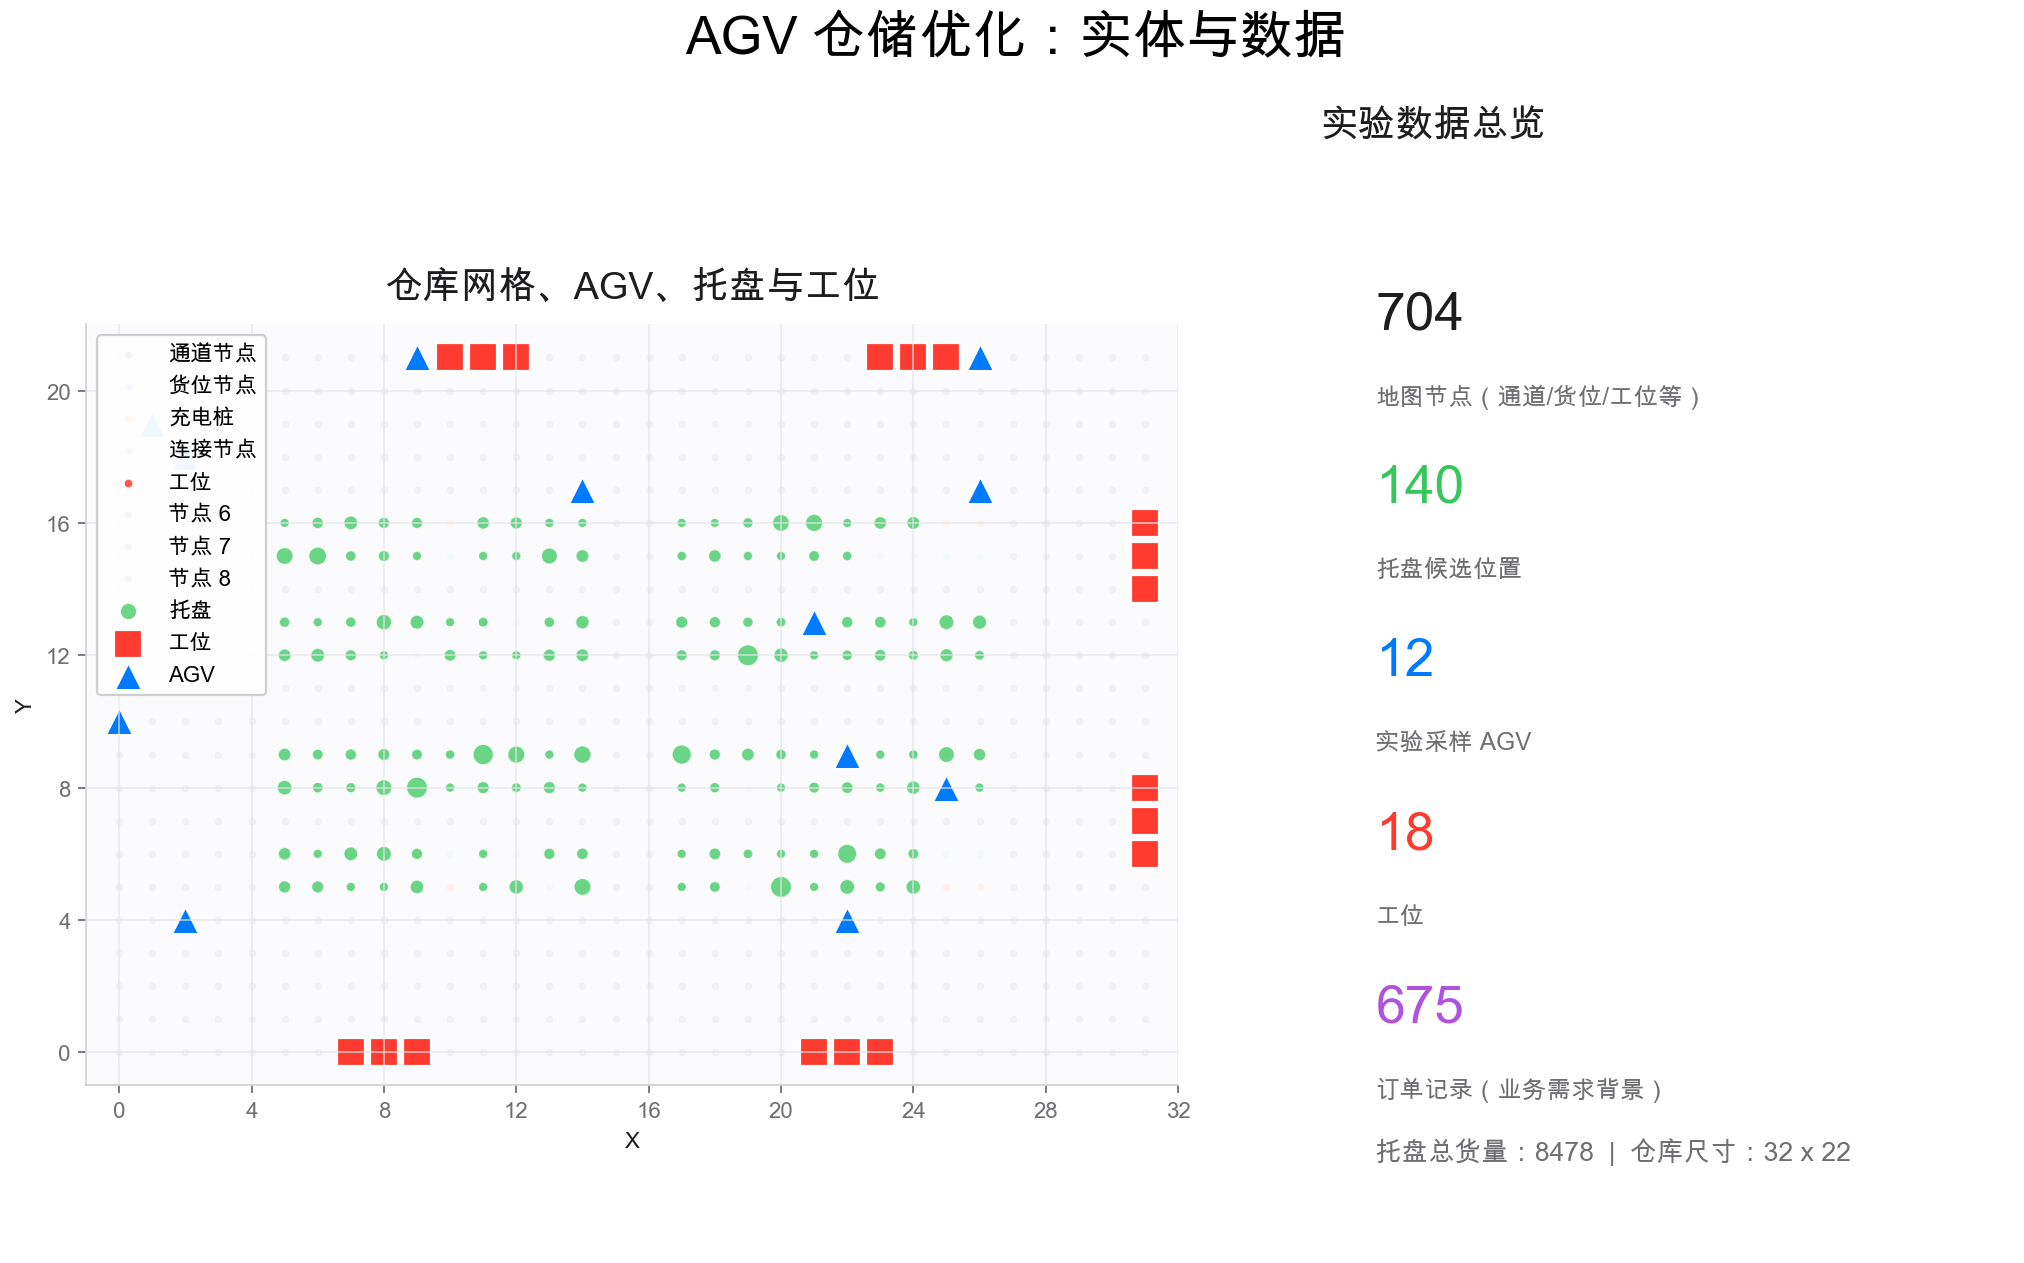
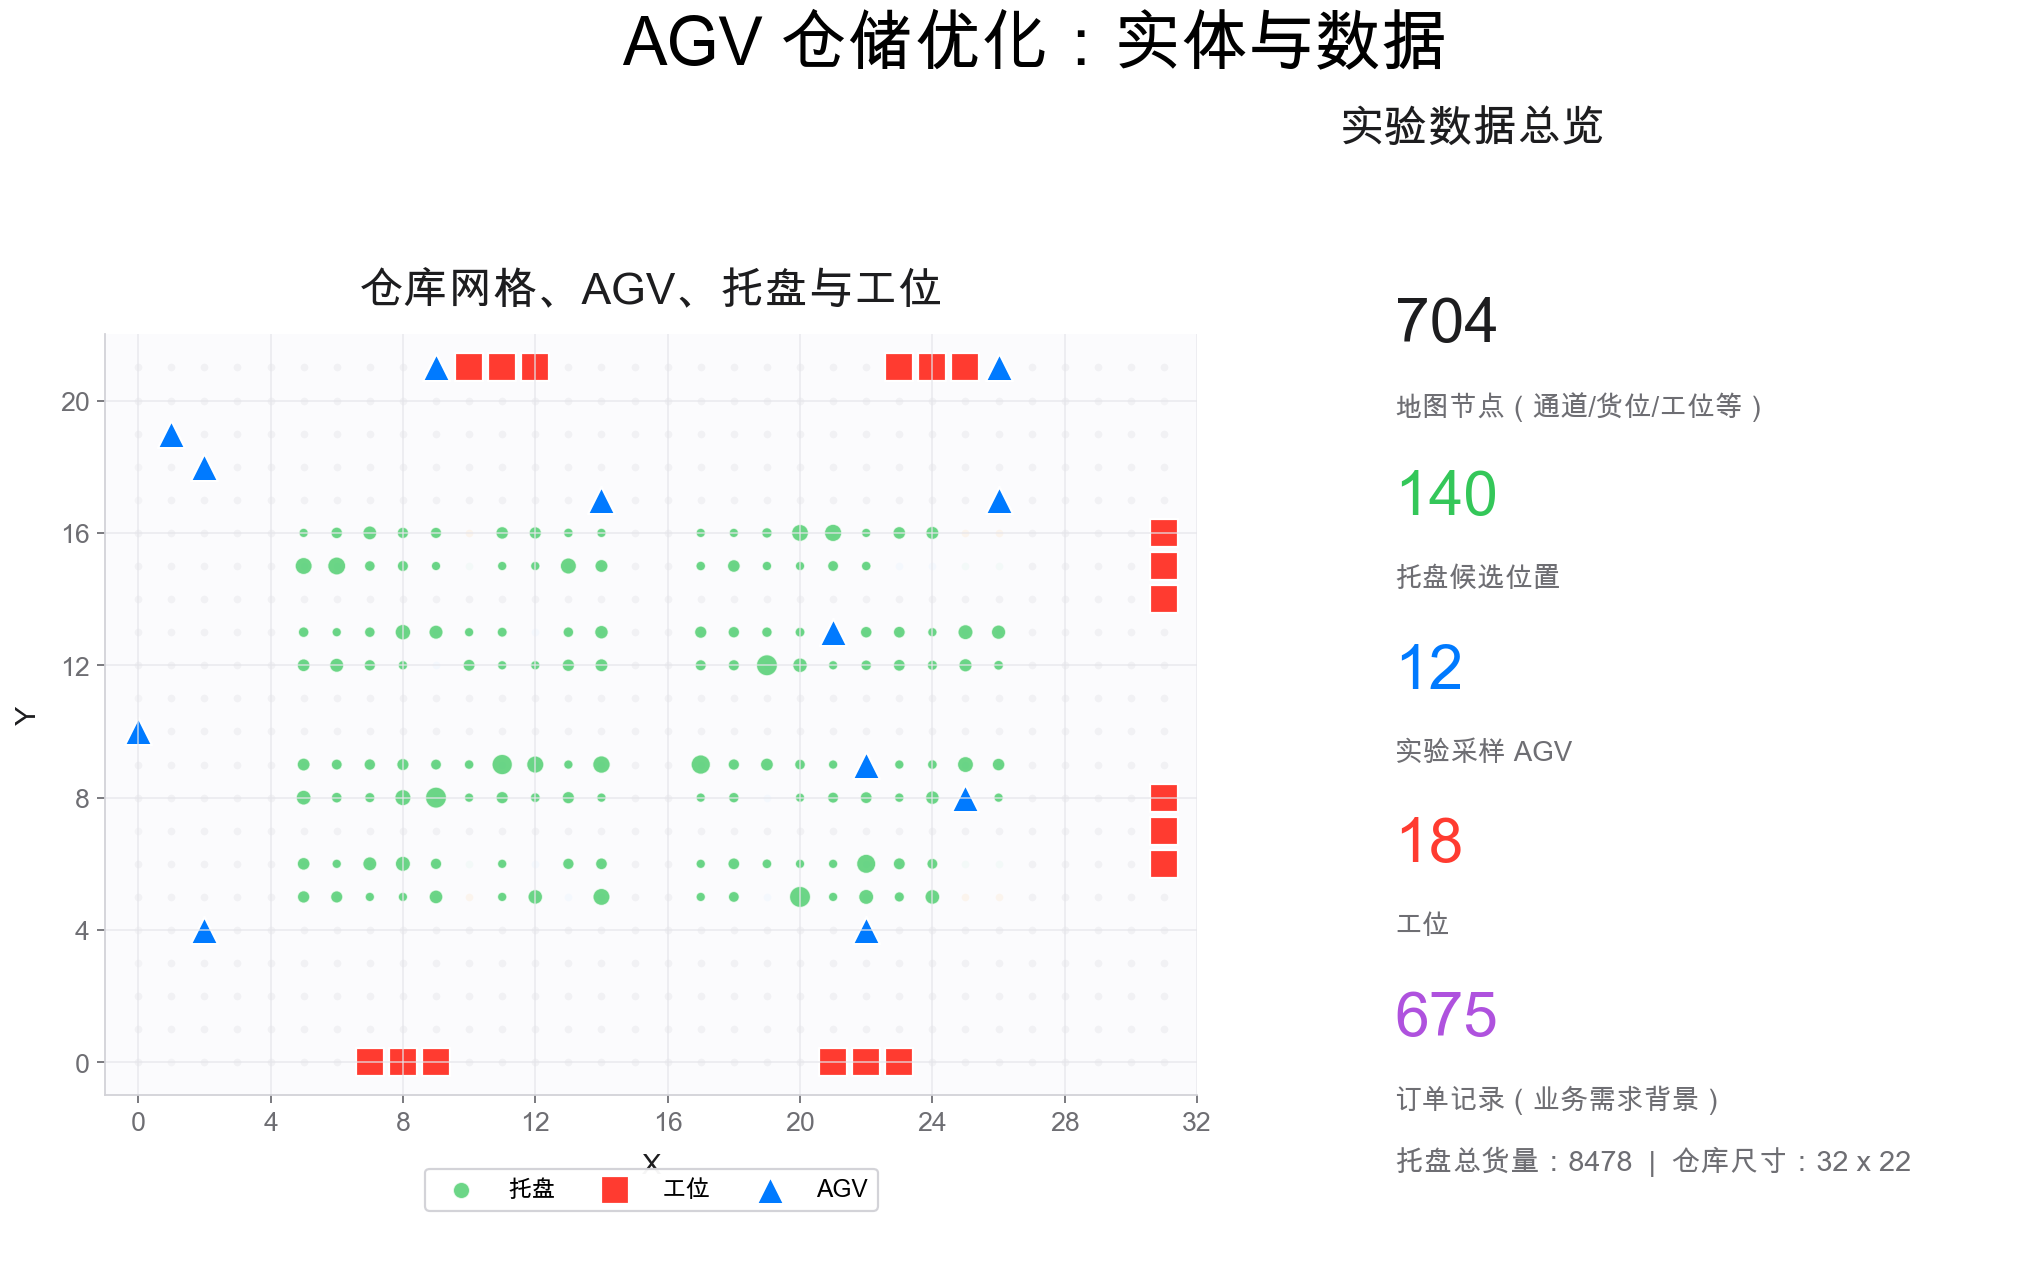
Improve README figure legends and typography

diff --git a/scripts/make_readme_figures.py b/scripts/make_readme_figures.py
@@ -83,6 +83,11 @@ def configure_style() -> None:
             "axes.edgecolor": COLORS["edge"],
             "axes.labelcolor": COLORS["text"],
             "axes.titlecolor": COLORS["text"],
+            "axes.titleweight": "bold",
+            "axes.labelweight": "semibold",
+            "font.size": 12,
+            "xtick.labelsize": 12,
+            "ytick.labelsize": 12,
             "xtick.color": COLORS["muted"],
             "ytick.color": COLORS["muted"],
             "axes.grid": True,
@@ -97,11 +102,26 @@ def setup_map_axis(ax: plt.Axes, data) -> None:
     ax.set_xlim(-1, data.ncols)
     ax.set_ylim(-1, data.nrows)
     ax.set_aspect("equal", adjustable="box")
-    ax.set_xlabel("X")
-    ax.set_ylabel("Y")
+    ax.set_xlabel("X", fontsize=13, fontweight="semibold", labelpad=8)
+    ax.set_ylabel("Y", fontsize=13, fontweight="semibold", labelpad=8)
     ax.set_xticks(np.arange(0, data.ncols + 1, 4))
     ax.set_yticks(np.arange(0, data.nrows + 1, 4))
     ax.spines[["top", "right"]].set_visible(False)
+
+
+def place_legend(ax: plt.Axes, *, columns: int, y: float = -0.08) -> None:
+    ax.legend(
+        loc="upper center",
+        bbox_to_anchor=(0.5, y),
+        ncol=columns,
+        frameon=True,
+        facecolor="white",
+        edgecolor=COLORS["edge"],
+        framealpha=0.96,
+        prop={"size": 11, "weight": "semibold"},
+        handlelength=2.2,
+        columnspacing=1.3,
+    )
 
 
 def scatter_nodes(ax: plt.Axes, data, *, alpha: float = 0.20) -> None:
@@ -116,13 +136,6 @@ def scatter_nodes(ax: plt.Axes, data, *, alpha: float = 0.20) -> None:
         "4": COLORS["connector"],
         "5": COLORS["workstation"],
     }
-    labels = {
-        "1": "通道节点",
-        "2": "货位节点",
-        "3": "充电桩",
-        "4": "连接节点",
-        "5": "工位",
-    }
     for node_type in sorted(set(types)):
         mask = types == node_type
         ax.scatter(
@@ -132,7 +145,7 @@ def scatter_nodes(ax: plt.Axes, data, *, alpha: float = 0.20) -> None:
             c=colors.get(node_type, COLORS["edge"]),
             alpha=alpha if node_type != "5" else 0.85,
             linewidths=0,
-            label=labels.get(node_type, f"节点 {node_type}"),
+            label="_nolegend_",
         )
 
 
@@ -142,7 +155,7 @@ def add_metric(ax: plt.Axes, y: float, label: str, value: str, color: str) -> No
         y,
         value,
         transform=ax.transAxes,
-        fontsize=24,
+        fontsize=28,
         fontweight="bold",
         color=color,
         va="center",
@@ -152,7 +165,8 @@ def add_metric(ax: plt.Axes, y: float, label: str, value: str, color: str) -> No
         y - 0.075,
         label,
         transform=ax.transAxes,
-        fontsize=11,
+        fontsize=12.5,
+        fontweight="semibold",
         color=COLORS["muted"],
         va="center",
     )
@@ -202,11 +216,11 @@ def draw_background_overview() -> None:
         label="AGV",
     )
     setup_map_axis(ax_map, data)
-    ax_map.set_title("仓库网格、AGV、托盘与工位", fontsize=17, fontweight="bold", pad=12)
-    ax_map.legend(loc="upper left", frameon=True, facecolor="white", framealpha=0.95)
+    ax_map.set_title("仓库网格、AGV、托盘与工位", fontsize=20, fontweight="bold", pad=14)
+    place_legend(ax_map, columns=3, y=-0.08)
 
     ax_info.axis("off")
-    ax_info.set_title("实验数据总览", loc="left", fontsize=17, fontweight="bold", pad=12)
+    ax_info.set_title("实验数据总览", loc="left", fontsize=20, fontweight="bold", pad=14)
     add_metric(ax_info, 0.86, "地图节点（通道/货位/工位等）", f"{len(data.nodes)}", COLORS["text"])
     add_metric(ax_info, 0.70, "托盘候选位置", f"{len(data.pallets)}", COLORS["pallet"])
     add_metric(ax_info, 0.54, "实验采样 AGV", f"{len(data.agvs)}", COLORS["agv"])
@@ -218,11 +232,12 @@ def draw_background_overview() -> None:
         f"托盘总货量：{int(data.pallet_quantities.sum())}  |  "
         f"仓库尺寸：{data.ncols} x {data.nrows}",
         transform=ax_info.transAxes,
-        fontsize=12,
+        fontsize=13,
+        fontweight="semibold",
         color=COLORS["muted"],
     )
 
-    fig.suptitle("AGV 仓储优化：实体与数据", fontsize=24, fontweight="bold", y=0.985)
+    fig.suptitle("AGV 仓储优化：实体与数据", fontsize=30, fontweight="bold", y=0.992)
     fig.savefig(FIG_DIR / "background_data_overview.png", bbox_inches="tight")
     plt.close(fig)
 
@@ -263,19 +278,22 @@ def draw_task1_assignment() -> None:
         ax.scatter([pallet[0]], [pallet[1]], s=90, c=COLORS["pallet"], edgecolors="white", linewidths=0.9)
 
     setup_map_axis(ax, data)
-    ax.set_title("任务 1：AGV -> 托盘 -> 工位 的搬运分配", fontsize=18, fontweight="bold", pad=12)
+    ax.set_title("任务 1：AGV -> 托盘 -> 工位 的搬运分配", fontsize=22, fontweight="bold", pad=14)
     ax.text(
-        0.02,
-        0.02,
+        0.5,
+        -0.115,
         f"展示前 {len(shown)} 条路线；虚线为取货距离，实线为送达距离；全部 {len(assignments)} 条分配写入 results/agv_assignment.csv",
         transform=ax.transAxes,
-        fontsize=11,
+        ha="center",
+        va="top",
+        fontsize=12,
         color=COLORS["text"],
         bbox={"boxstyle": "round,pad=0.45", "facecolor": "white", "edgecolor": COLORS["edge"], "alpha": 0.94},
+        clip_on=False,
     )
     ax.plot([], [], color=COLORS["route_pickup"], linestyle="--", linewidth=2.2, label="取货路径")
     ax.plot([], [], color=COLORS["route_delivery"], linewidth=2.2, label="送达路径")
-    ax.legend(loc="upper left", frameon=True, facecolor="white", framealpha=0.95)
+    place_legend(ax, columns=5, y=-0.055)
     fig.savefig(FIG_DIR / "task1_agv_assignment.png", bbox_inches="tight")
     plt.close(fig)
 
@@ -303,19 +321,28 @@ def draw_task2_partition() -> None:
         for idx in station_for_pallet
     ]
     sizes = np.clip(data.pallet_quantities / 1.6, 24, 120)
-    ax_map.scatter(pallets[:, 0], pallets[:, 1], s=sizes, c=colors, alpha=0.78, edgecolors="white", linewidths=0.5)
+    ax_map.scatter(
+        pallets[:, 0],
+        pallets[:, 1],
+        s=sizes,
+        c=colors,
+        alpha=0.78,
+        edgecolors="white",
+        linewidths=0.5,
+        label="托盘（颜色=主服务工位）",
+    )
     ax_map.scatter(workstations[:, 0], workstations[:, 1], s=150, c=COLORS["workstation"], marker="s", edgecolors="white", linewidths=1.0, label="工位")
     for idx, (x, y) in enumerate(data.workstations):
-        ax_map.text(x + 0.24, y + 0.24, str(idx), fontsize=8, color=COLORS["text"], weight="bold")
+        ax_map.text(x + 0.24, y + 0.24, str(idx), fontsize=9.5, color=COLORS["text"], weight="bold")
     setup_map_axis(ax_map, data)
-    ax_map.set_title("任务 2：托盘货量按主服务工位形成动态分区", fontsize=18, fontweight="bold", pad=12)
-    ax_map.legend(loc="upper left", frameon=True, facecolor="white", framealpha=0.95)
+    ax_map.set_title("任务 2：托盘货量按主服务工位形成动态分区", fontsize=22, fontweight="bold", pad=14)
+    place_legend(ax_map, columns=2, y=-0.08)
 
     loads = loads.sort_values("workstation_index")
     ax_bar.barh(loads["workstation_index"].astype(str), loads["quantity"], color=COLORS["workload"], alpha=0.82)
-    ax_bar.set_title("各工位获得货量", fontsize=15, fontweight="bold", pad=10)
-    ax_bar.set_xlabel("Quantity")
-    ax_bar.set_ylabel("Workstation")
+    ax_bar.set_title("各工位获得货量", fontsize=18, fontweight="bold", pad=12)
+    ax_bar.set_xlabel("Quantity", fontsize=13, fontweight="semibold", labelpad=8)
+    ax_bar.set_ylabel("Workstation", fontsize=13, fontweight="semibold", labelpad=8)
     ax_bar.spines[["top", "right"]].set_visible(False)
     ax_bar.invert_yaxis()
     ax_bar.text(
@@ -323,7 +350,7 @@ def draw_task2_partition() -> None:
         -0.10,
         "颜色表示托盘主要分配给哪个工位；柱状图用于观察负载水平。",
         transform=ax_bar.transAxes,
-        fontsize=10.5,
+        fontsize=11.5,
         color=COLORS["muted"],
     )
 
@@ -366,17 +393,17 @@ def draw_task3_layout() -> None:
         diamond_y = [y + radius, y, y - radius, y, y + radius]
         ax_map.plot(diamond_x, diamond_y, color=COLORS["selected"], alpha=0.24, linewidth=1.2)
     setup_map_axis(ax_map, data)
-    ax_map.set_title("任务 3：从候选货位中选择分散的重点缓存/中转位置", fontsize=18, fontweight="bold", pad=12)
-    ax_map.legend(loc="upper left", frameon=True, facecolor="white", framealpha=0.95)
+    ax_map.set_title("任务 3：从候选货位中选择分散的重点缓存/中转位置", fontsize=22, fontweight="bold", pad=14)
+    place_legend(ax_map, columns=2, y=-0.08)
 
     ax_table.axis("off")
-    ax_table.set_title("选中结果", loc="left", fontsize=17, fontweight="bold", pad=12)
+    ax_table.set_title("选中结果", loc="left", fontsize=20, fontweight="bold", pad=14)
     ax_table.text(
         0.02,
         0.90,
         f"选中数量：{len(selected_idx)}\n最小曼哈顿距离：{int(min_pair)}\n约束要求：距离 > 6",
         transform=ax_table.transAxes,
-        fontsize=14,
+        fontsize=15,
         color=COLORS["text"],
         linespacing=1.7,
     )
@@ -393,7 +420,7 @@ def draw_task3_layout() -> None:
         bbox=[0.02, 0.08, 0.82, 0.66],
     )
     table.auto_set_font_size(False)
-    table.set_fontsize(10)
+    table.set_fontsize(11)
     for cell in table.get_celld().values():
         cell.set_edgecolor(COLORS["grid"])
         cell.set_linewidth(0.6)
